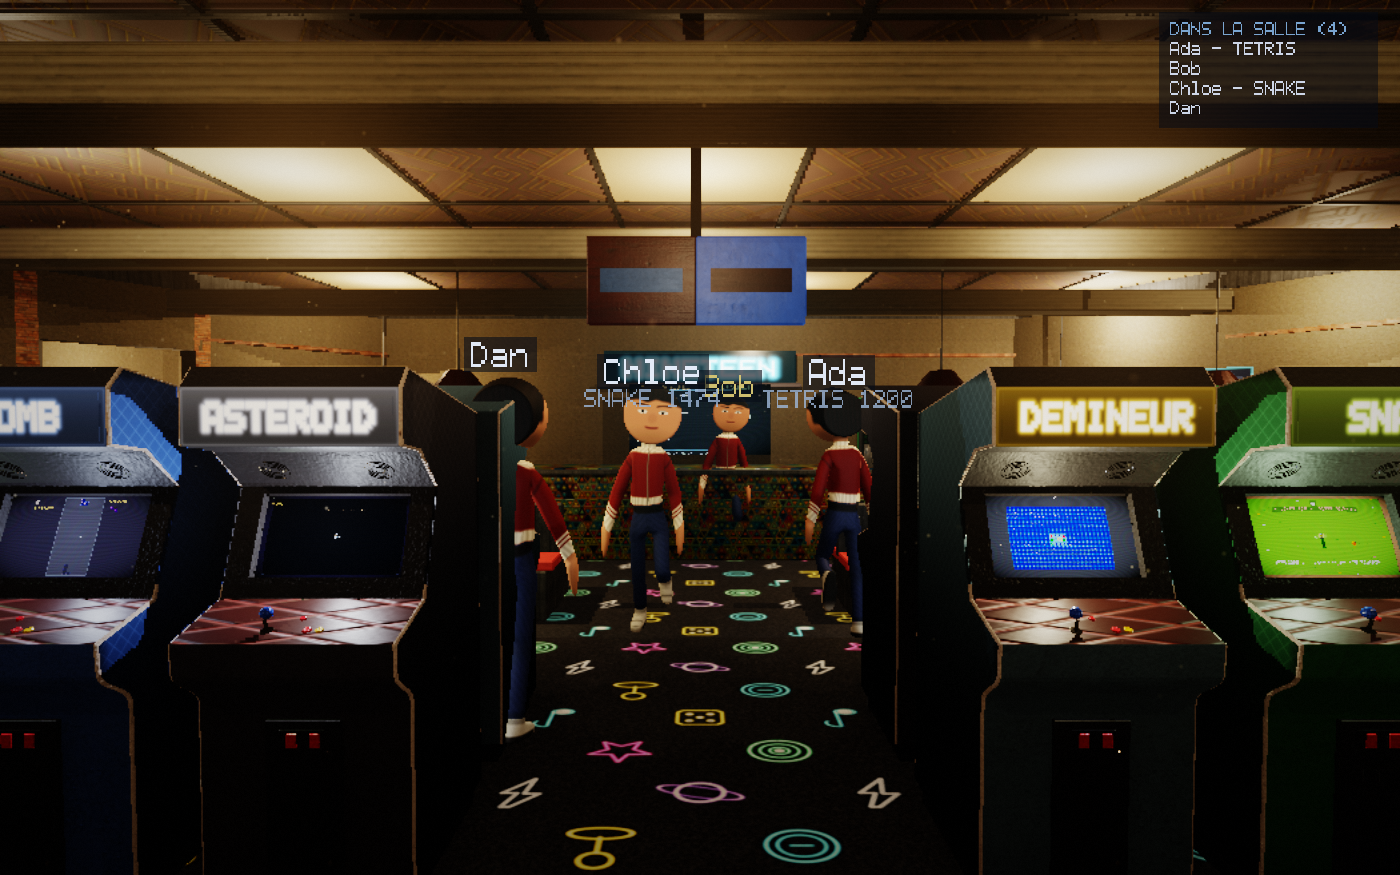
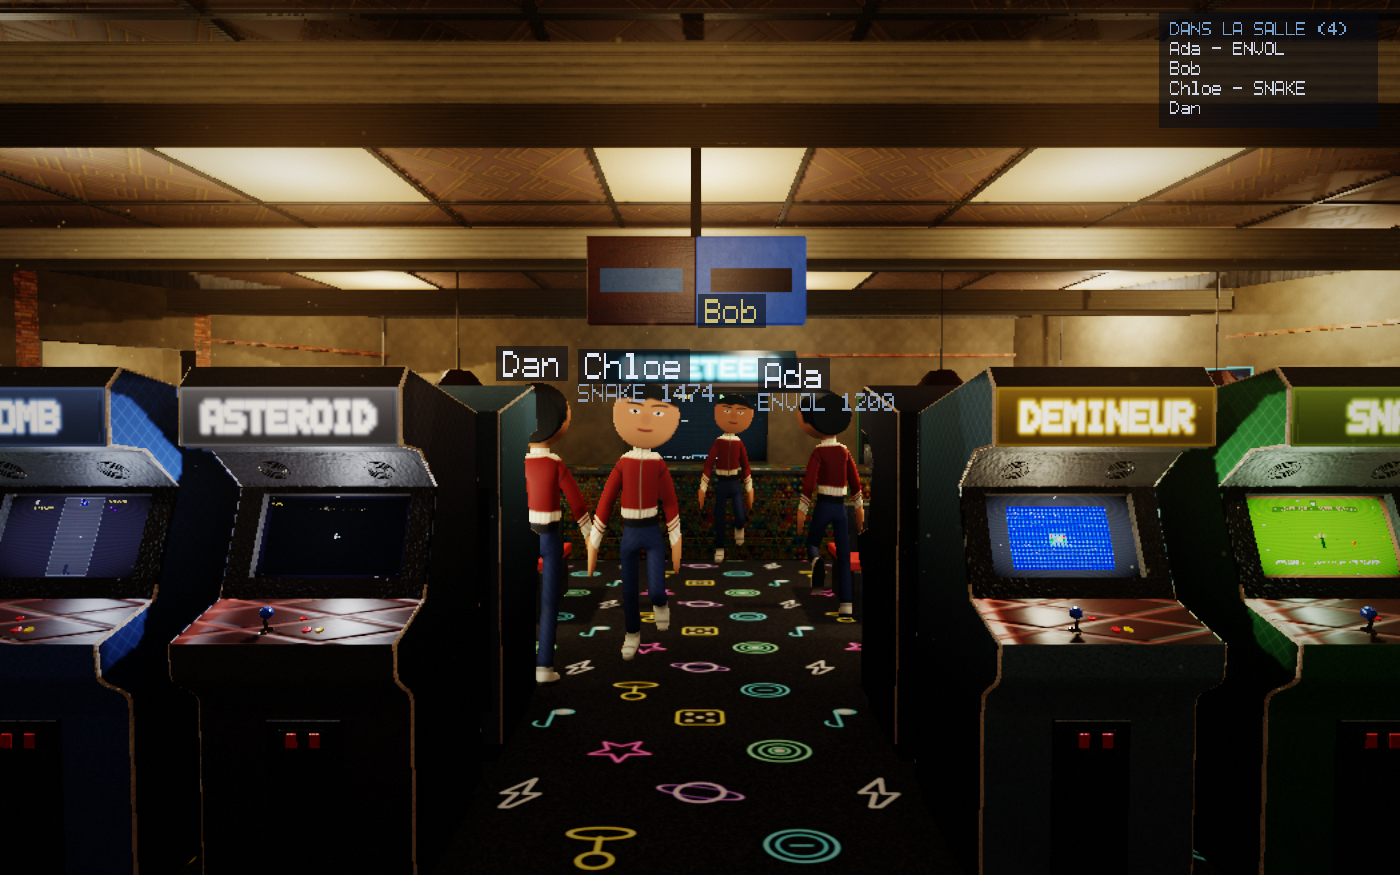
Les marcheurs de demonstration cessent de porter deux marques deposees
Le mode --pairs-demo nommait leurs jeux par une table ecrite a la main :
« TETRIS », « SNAKE », « PONG », « CASSE ». TETRIS est une marque de Tetris
Holding, PONG une marque d'Atari, et ce depot a debaptise trois de ses jeux et
migre sa base pour retirer exactement ces mots-la — 0003_debaptise.sql. Ils
revenaient dans un mode documente par --help et dans l'image livree avec le
depot : une salle qui ne porte plus une marque mais dont la capture de
presentation l'affiche n'a rien retire.

Le nom vient maintenant de ns_game_at, le registre. Il ne contient que les jeux
que la salle PORTE, sous le nom qu'elle leur donne : un jeu debaptise demain
suivra sans qu'on ait a se souvenir de cette ligne. Le test de presence gagne
nineteen::games pour la meme raison.

Et les etiquettes se desempilent. Elles etaient dessinees dans l'ordre du
tableau, chacune centree sur sa tete ; a quatre personnes groupees dans l'allee
— la situation NORMALE d'une salle d'arcade, pas un cas limite — les quatre
plaques se recouvraient et plus aucun nom ne se lisait. Du plus proche au plus
loin, decalage vers le haut jusqu'a trois fois, et abandon au-dela : le nom
reste dans la liste en haut a droite, qui existe pour ca. Le rectangle teste
inclut la sous-ligne, puisque c'est elle qui va cogner le nom du voisin.

L'image de docs est refaite : elle portait TETRIS, les etiquettes empilees, et
les murs et les ombres d'avant.

diff --git a/room/main.c b/room/main.c
@@ -1123,7 +1123,62 @@ static void draw_presence(ns_sprite *s, const room_presence *pr,
      * l'afficher comme les autres reviendrait à garantir ce qu'on ne sait pas. */
     const float unverified[4] = { 0.85f, 0.78f, 0.45f, 0.95f };
 
-    for (uint32_t i = 0; i < n; ++i) {
+    /*
+     * LES ETIQUETTES SE DESEMPILENT, et il a fallu quatre marcheurs pour le voir.
+     *
+     * Elles etaient dessinees dans l'ordre du tableau de pairs, chacune centree
+     * sur la tete de son corps. A quatre personnes groupees dans l'allee — ce
+     * qui est la situation NORMALE d'une salle d'arcade, pas un cas limite — les
+     * quatre plaques se recouvrent et plus aucun nom ne se lit : la capture
+     * montrait « Dan », « Chloe » et « SNAKE 1474 » imprimes les uns sur les
+     * autres. Une etiquette illisible est pire qu'une etiquette absente, parce
+     * qu'elle abime aussi celle du voisin.
+     *
+     * Trois regles, dans cet ordre :
+     *
+     *   1. DU PLUS PROCHE AU PLUS LOIN. Celui qui est devant a la priorite, et
+     *      sa plaque opaque passe par-dessus. C'est aussi l'ordre qui donne la
+     *      bonne lecture de profondeur : un nom lointain qui recouvre un nom
+     *      proche est un contresens.
+     *   2. ON DECALE VERS LE HAUT. Une plaque qui tombe sur une deja posee
+     *      remonte d'une hauteur de plaque, jusqu'a trois fois. Vers le haut et
+     *      non vers le bas parce qu'au-dessus d'une tete il y a le plafond,
+     *      et au-dessous il y a le corps qu'on cherche a designer.
+     *   3. SI CA NE SUFFIT PAS, ON RENONCE. Le nom reste dans la liste en haut
+     *      a droite, qui existe precisement pour dire QUI est la quand
+     *      l'etiquette ne le peut pas.
+     *
+     * Le rectangle teste inclut la SOUS-LIGNE (le jeu et le score) : c'est elle
+     * qui depasse et qui va cogner le nom du voisin.
+     */
+    uint32_t order[ROOM_PRESENCE_MAX];
+    float    order_d[ROOM_PRESENCE_MAX];
+    uint32_t order_n = 0;
+    for (uint32_t i = 0; i < n && order_n < ROOM_PRESENCE_MAX; ++i) {
+        const room_presence_body *p = &pr->body[i];
+        const ns_v3 w = ns_v3_make(p->feet.x, p->label_y, p->feet.z);
+        order[order_n]   = i;
+        order_d[order_n] = ns_v3_len(ns_v3_sub(w, cam->position));
+        order_n++;
+    }
+    /* Tri par insertion : seize elements au plus, et il tourne une fois par
+     * image. Un tri plus savant coûterait plus a lire qu'a executer. */
+    for (uint32_t a = 1; a < order_n; ++a) {
+        const uint32_t ki = order[a];
+        const float    kd = order_d[a];
+        uint32_t b = a;
+        while (b > 0 && order_d[b - 1] > kd) {
+            order[b] = order[b - 1]; order_d[b] = order_d[b - 1]; b--;
+        }
+        order[b] = ki; order_d[b] = kd;
+    }
+
+    /* Les plaques deja posees, en (x, y, largeur, hauteur). */
+    float placed[ROOM_PRESENCE_MAX][4];
+    uint32_t placed_n = 0;
+
+    for (uint32_t k = 0; k < order_n; ++k) {
+        const uint32_t i = order[k];
         const room_presence_body *p = &pr->body[i];
 
         /*
@@ -1160,6 +1215,47 @@ static void draw_presence(ns_sprite *s, const room_presence *pr,
         const float tw = ns_sprite_text_width(p->name, scale);
         const float th = ns_sprite_text_height(scale);
 
+        /* La sous-ligne est calculee AVANT le placement : elle fait partie de
+         * l'encombrement, et c'est elle qui depasse par le bas. */
+        char line[64];
+        line[0] = '\0';
+        float sub = 0.0f, sw = 0.0f, sh = 0.0f;
+        if (p->game[0]) {
+            if (p->score > 0) {
+                SDL_snprintf(line, sizeof line, "%s %d", p->game, (int)p->score);
+            } else {
+                SDL_snprintf(line, sizeof line, "%s", p->game);
+            }
+            sub = ns_maxf(scale * 0.7f, 1.0f);
+            sw  = ns_sprite_text_width(line, sub);
+            sh  = ns_sprite_text_height(sub) + 4.0f;
+        }
+
+        const float bw = ns_maxf(tw + 12.0f, sw);
+        const float bh = th + 8.0f + sh;
+        float bx = sx - bw * 0.5f;
+        float by = sy - th * 0.5f - 4.0f;
+
+        bool libre = false;
+        for (int essai = 0; essai < 4 && !libre; ++essai) {
+            libre = true;
+            for (uint32_t q = 0; q < placed_n; ++q) {
+                if (bx < placed[q][0] + placed[q][2] && bx + bw > placed[q][0]
+                    && by < placed[q][1] + placed[q][3] && by + bh > placed[q][1]) {
+                    libre = false;
+                    break;
+                }
+            }
+            if (!libre) by -= bh + 3.0f;
+        }
+        if (!libre) continue;      /* la liste en haut a droite le dira */
+
+        placed[placed_n][0] = bx; placed[placed_n][1] = by;
+        placed[placed_n][2] = bw; placed[placed_n][3] = bh;
+        placed_n++;
+
+        const float name_y = by + 4.0f + th * 0.5f;
+
         /* Les trois teintes reprises telles quelles, alpha multiplié par le
          * fondu : c'est le même effacement que le corps, pas un second. */
         const float name_src[4] = { p->verified ? white[0] : unverified[0],
@@ -1169,22 +1265,13 @@ static void draw_presence(ns_sprite *s, const room_presence *pr,
         const float back_f[4] = { back[0], back[1], back[2], back[3] * fade };
         const float dim_f[4]  = { dim[0],  dim[1],  dim[2],  dim[3]  * fade };
 
-        ns_sprite_rect(s, sx - tw * 0.5f - 6.0f, sy - th * 0.5f - 4.0f,
-                       tw + 12.0f, th + 8.0f, back_f);
-        ns_sprite_text(s, sx - tw * 0.5f, sy - th * 0.5f, scale, name_src, p->name);
+        ns_sprite_rect(s, bx, by, tw + 12.0f, th + 8.0f, back_f);
+        ns_sprite_text(s, bx + 6.0f, name_y - th * 0.5f, scale, name_src, p->name);
 
         /* Ce qu'il fait, sous son nom. C'est ça qui rend la salle vivante :
-         * « Bob — TETRIS 1200 » raconte quelque chose, une position non. */
-        if (p->game[0]) {
-            char line[64];
-            if (p->score > 0) {
-                SDL_snprintf(line, sizeof line, "%s %d", p->game, (int)p->score);
-            } else {
-                SDL_snprintf(line, sizeof line, "%s", p->game);
-            }
-            const float sub = ns_maxf(scale * 0.7f, 1.0f);
-            const float sw = ns_sprite_text_width(line, sub);
-            ns_sprite_text(s, sx - sw * 0.5f, sy + th * 0.5f + 4.0f, sub, dim_f, line);
+         * « Bob — SNAKE 1200 » raconte quelque chose, une position non. */
+        if (line[0]) {
+            ns_sprite_text(s, bx + (bw - sw) * 0.5f, by + th + 8.0f, sub, dim_f, line);
         }
     }
 }

diff --git a/room/room_presence.c b/room/room_presence.c
@@ -2,6 +2,10 @@
  * déduit, et pourquoi un pair n'est pas un obstacle. */
 #include "room_presence.h"
 
+/* Le REGISTRE DES JEUX, pour les marcheurs de demonstration : voir plus bas,
+ * la table qui les nommait a la main portait deux marques deposees. */
+#include "games.h"
+
 #include <math.h>
 #include <string.h>
 
@@ -470,7 +474,27 @@ uint32_t room_presence_demo(ns_realtime_peer *out, uint32_t max,
      */
     static const char *NOMS[] = { "Ada", "Bob", "Chloe", "Dan",
                                   "Elise", "Femi", "Gus", "Hana" };
-    static const char *JEUX[] = { "TETRIS", "", "SNAKE", "", "PONG", "", "CASSE", "" };
+
+    /*
+     * CE QU'ILS JOUENT VIENT DU REGISTRE, ET C'EST UNE CORRECTION.
+     *
+     * Cette ligne etait une table ecrite a la main : « TETRIS », « SNAKE »,
+     * « PONG », « CASSE ». TETRIS est une marque deposee de Tetris Holding et
+     * PONG une marque d'Atari ; ce depot a debaptise trois de ses jeux et
+     * migre sa base pour retirer exactement ces mots-la
+     * (`server/internal/migrations/0003_debaptise.sql`), et deux d'entre eux
+     * revenaient ici — dans un mode documente par `--help` et employe pour
+     * produire une image livree avec le depot. Une salle qui ne porte plus une
+     * marque mais dont la capture de presentation l'affiche n'a rien retire.
+     *
+     * Le registre ne peut pas mentir : il ne contient que les jeux que la salle
+     * PORTE, sous le nom qu'elle leur donne. Un jeu debaptise demain suivra
+     * sans qu'on ait a se souvenir de cette ligne.
+     *
+     * Un marcheur sur deux ne joue a rien : c'est ce qui fait que l'etiquette
+     * a deux lignes et l'etiquette a une ligne se voient toutes les deux sur la
+     * meme capture.
+     */
 
     const float EYE = 1.63f;      /* la hauteur d'œil debout du jeu */
     const float SPEED = 1.4f;
@@ -487,7 +511,11 @@ uint32_t room_presence_demo(ns_realtime_peer *out, uint32_t max,
         p->id[4] = (char)('0' + (int)(i % 10u));
         p->id[5] = '\0';
         copy_bounded(p->name, sizeof p->name, NOMS[i % 8u], 8u);
-        copy_bounded(p->game, sizeof p->game, JEUX[i % 8u], 8u);
+        const int jeux = ns_game_count();
+        const ns_game_api *api = ((i % 2u) == 0u && jeux > 0)
+                               ? ns_game_at((int)((i / 2u) % (uint32_t)jeux))
+                               : NULL;
+        copy_bounded(p->game, sizeof p->game, (api && api->label) ? api->label : "", 8u);
         p->verified = ((i % 3u) != 1u);
         p->score = (int32_t)(1200 + 137 * (int)i);
 
